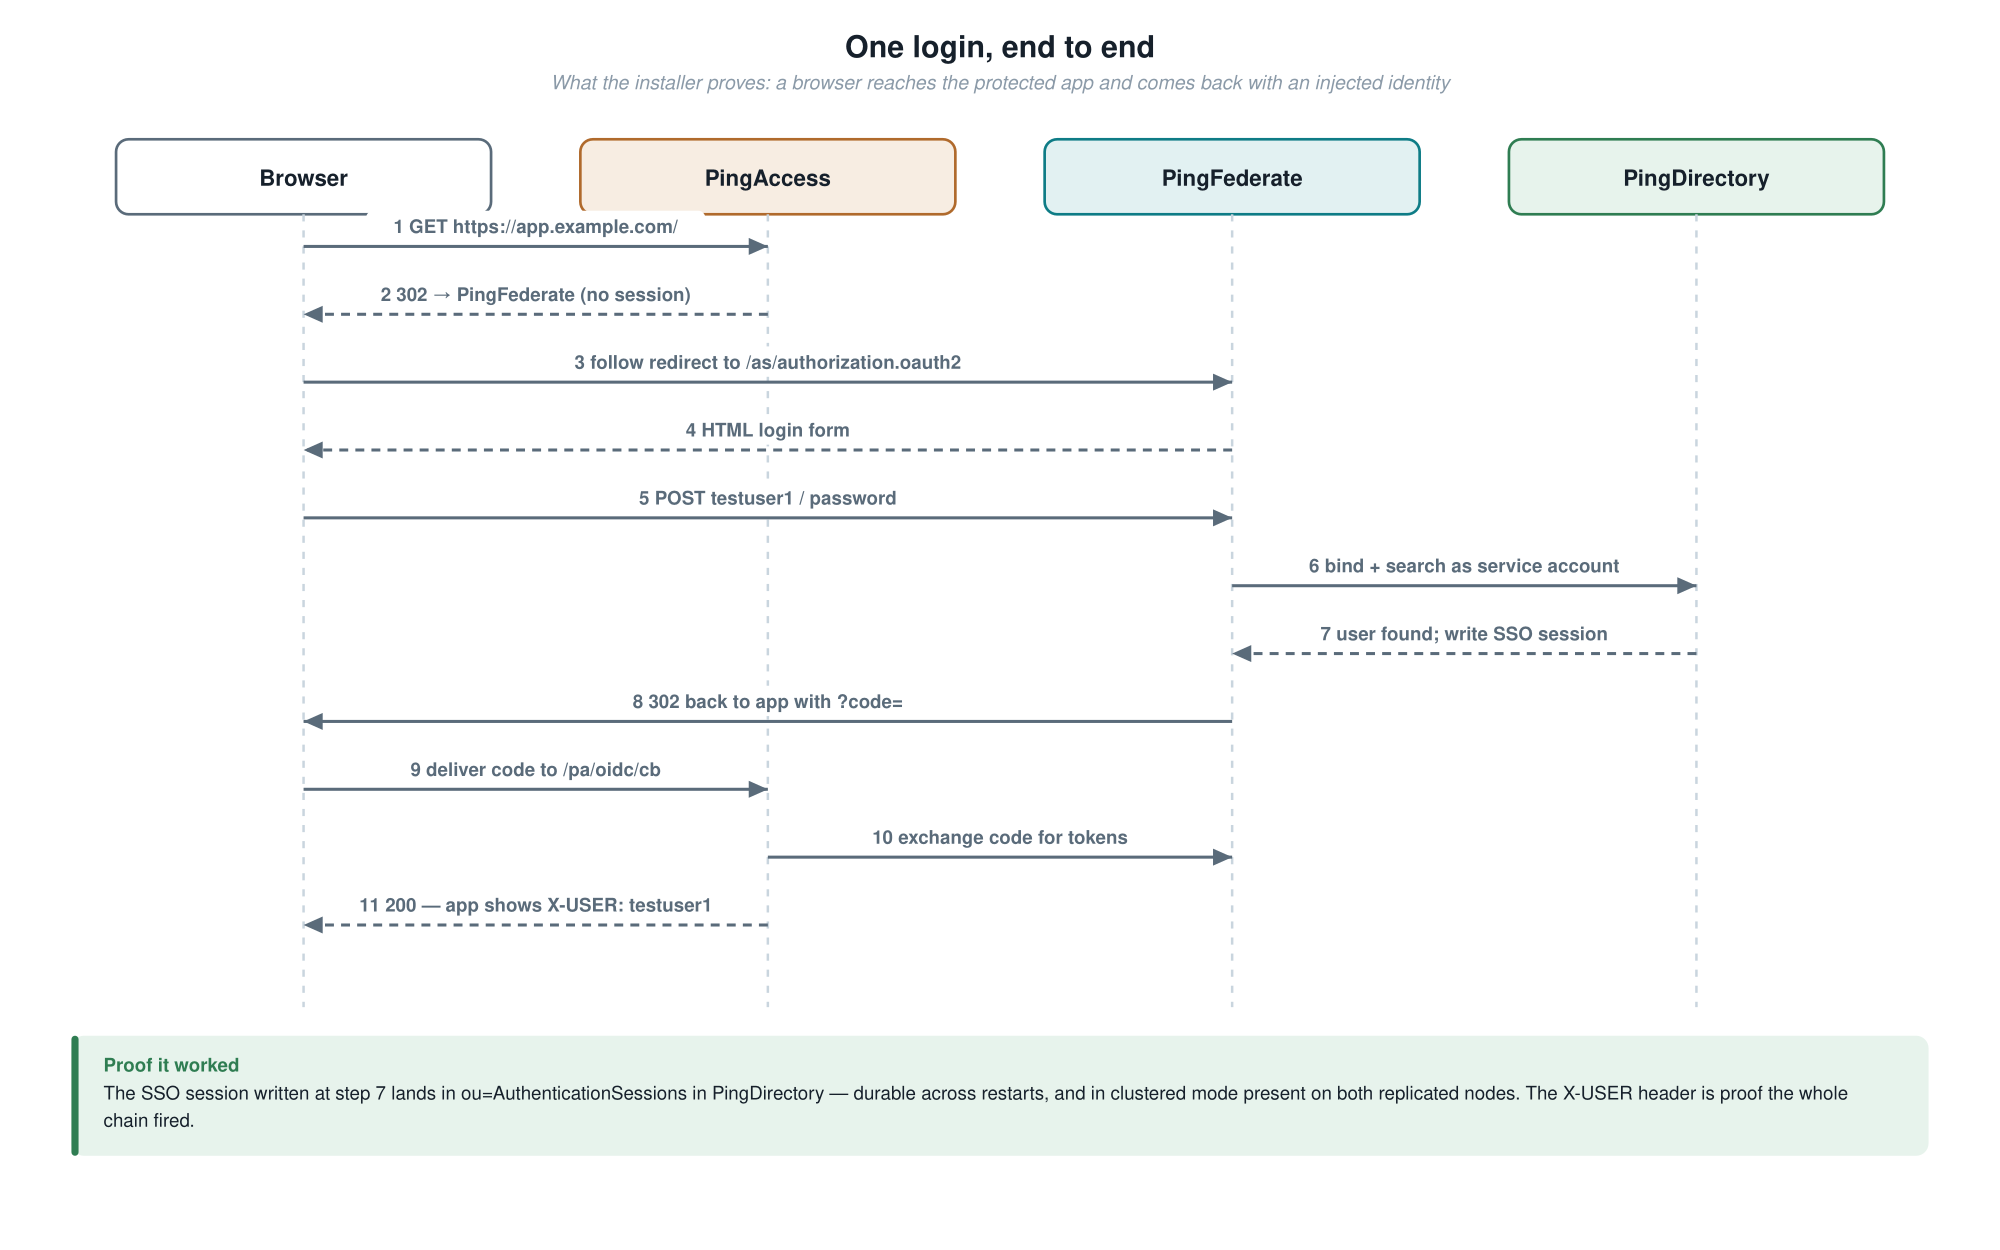
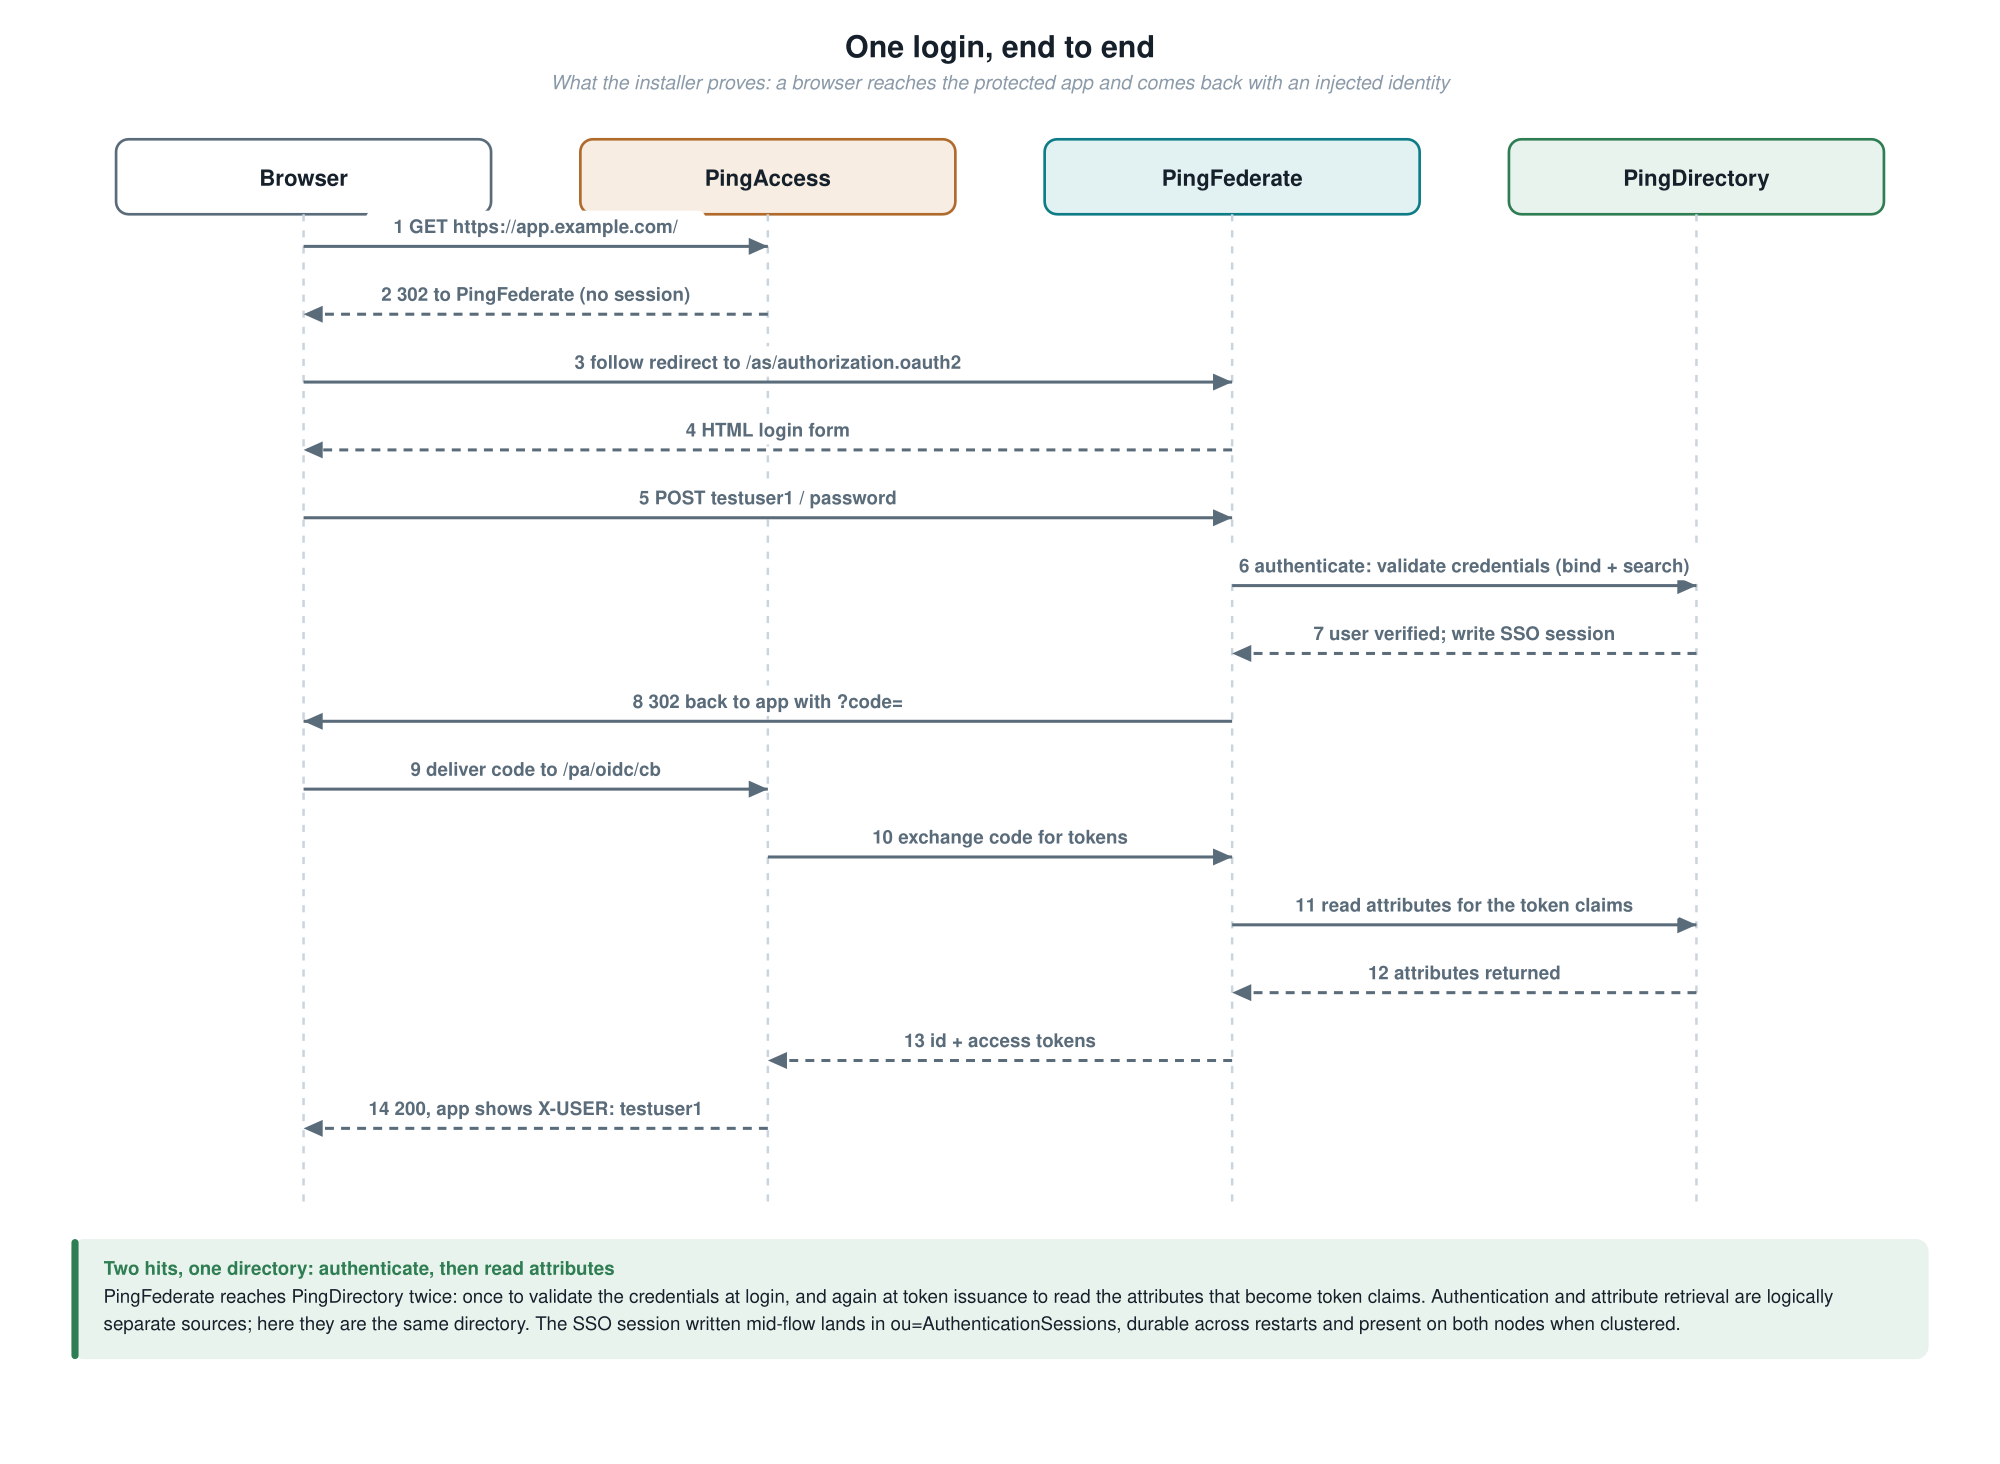
docs: show the token-issuance attribute read in the SSO flow diagram
The login flow only showed PingFederate hitting PingDirectory once, to validate
credentials. Add the second hit: at token issuance PingFederate reads the
attributes that become the token claims, then returns the id + access tokens.
The callout makes the point that authentication and attribute retrieval are
logically separate sources that happen to be the same directory here.

diff --git a/tooling/diagrams.py b/tooling/diagrams.py
@@ -48,7 +48,7 @@ def install_phases(OUT):
 
 # ============================================================ 3. SSO sequence
 def sso_flow(OUT):
-    W, H = 1120, 700
+    W, H = 1120, 820
     s = SVG(W, H, "End-to-end SSO the installer proves")
     s.header("One login, end to end",
              "What the installer proves: a browser reaches the protected app and comes back with an injected identity")
@@ -59,23 +59,28 @@ def sso_flow(OUT):
                  ("PingFederate", PF_FILL, PF_LINE),
                  ("PingDirectory", PD_FILL, PD_LINE)],
                 [(0, 1, "GET https://app.example.com/"),
-                 (1, 0, "302 → PingFederate (no session)", "dashed"),
+                 (1, 0, "302 to PingFederate (no session)", "dashed"),
                  (0, 2, "follow redirect to /as/authorization.oauth2"),
                  (2, 0, "HTML login form", "dashed"),
                  (0, 2, "POST testuser1 / password"),
-                 (2, 3, "bind + search as service account"),
-                 (3, 2, "user found; write SSO session", "dashed"),
+                 (2, 3, "authenticate: validate credentials (bind + search)"),
+                 (3, 2, "user verified; write SSO session", "dashed"),
                  (2, 0, "302 back to app with ?code="),
                  (0, 1, "deliver code to /pa/oidc/cb"),
                  (1, 2, "exchange code for tokens"),
-                 (1, 0, "200 — app shows X-USER: testuser1", "dashed")],
+                 (2, 3, "read attributes for the token claims"),
+                 (3, 2, "attributes returned", "dashed"),
+                 (2, 1, "id + access tokens", "dashed"),
+                 (1, 0, "200, app shows X-USER: testuser1", "dashed")],
                 step_gap=38)
 
     s.callout(40, y + 16, W - 80,
-              "The SSO session written at step 7 lands in ou=AuthenticationSessions in "
-              "PingDirectory — durable across restarts, and in clustered mode present on both "
-              "replicated nodes. The X-USER header is proof the whole chain fired.",
-              title="Proof it worked", kind="ok")
+              "PingFederate reaches PingDirectory twice: once to validate the credentials at "
+              "login, and again at token issuance to read the attributes that become token claims. "
+              "Authentication and attribute retrieval are logically separate sources; here they are "
+              "the same directory. The SSO session written mid-flow lands in ou=AuthenticationSessions, "
+              "durable across restarts and present on both nodes when clustered.",
+              title="Two hits, one directory: authenticate, then read attributes", kind="ok")
     return [s.save(OUT / "sso-flow.svg")]
 
 

diff --git a/README.md b/README.md
@@ -100,6 +100,10 @@ always does it.
 This is what the installer proves. A browser reaches the protected app, is bounced
 through PingFederate to sign in against PingDirectory, and lands back on the app
 carrying an injected identity header, with the SSO session written to the directory.
+PingFederate reaches the directory twice along the way: once to validate the
+credentials at login, and again at token issuance to read the attributes that become
+the token claims. Authentication and attribute retrieval are logically separate
+sources; here they are the same directory.
 
 ![Sequence of a full single sign-on: the browser, PingAccess, PingFederate and PingDirectory exchanging redirects and tokens until the app returns X-USER: testuser1](docs/images/sso-flow.png)
 
